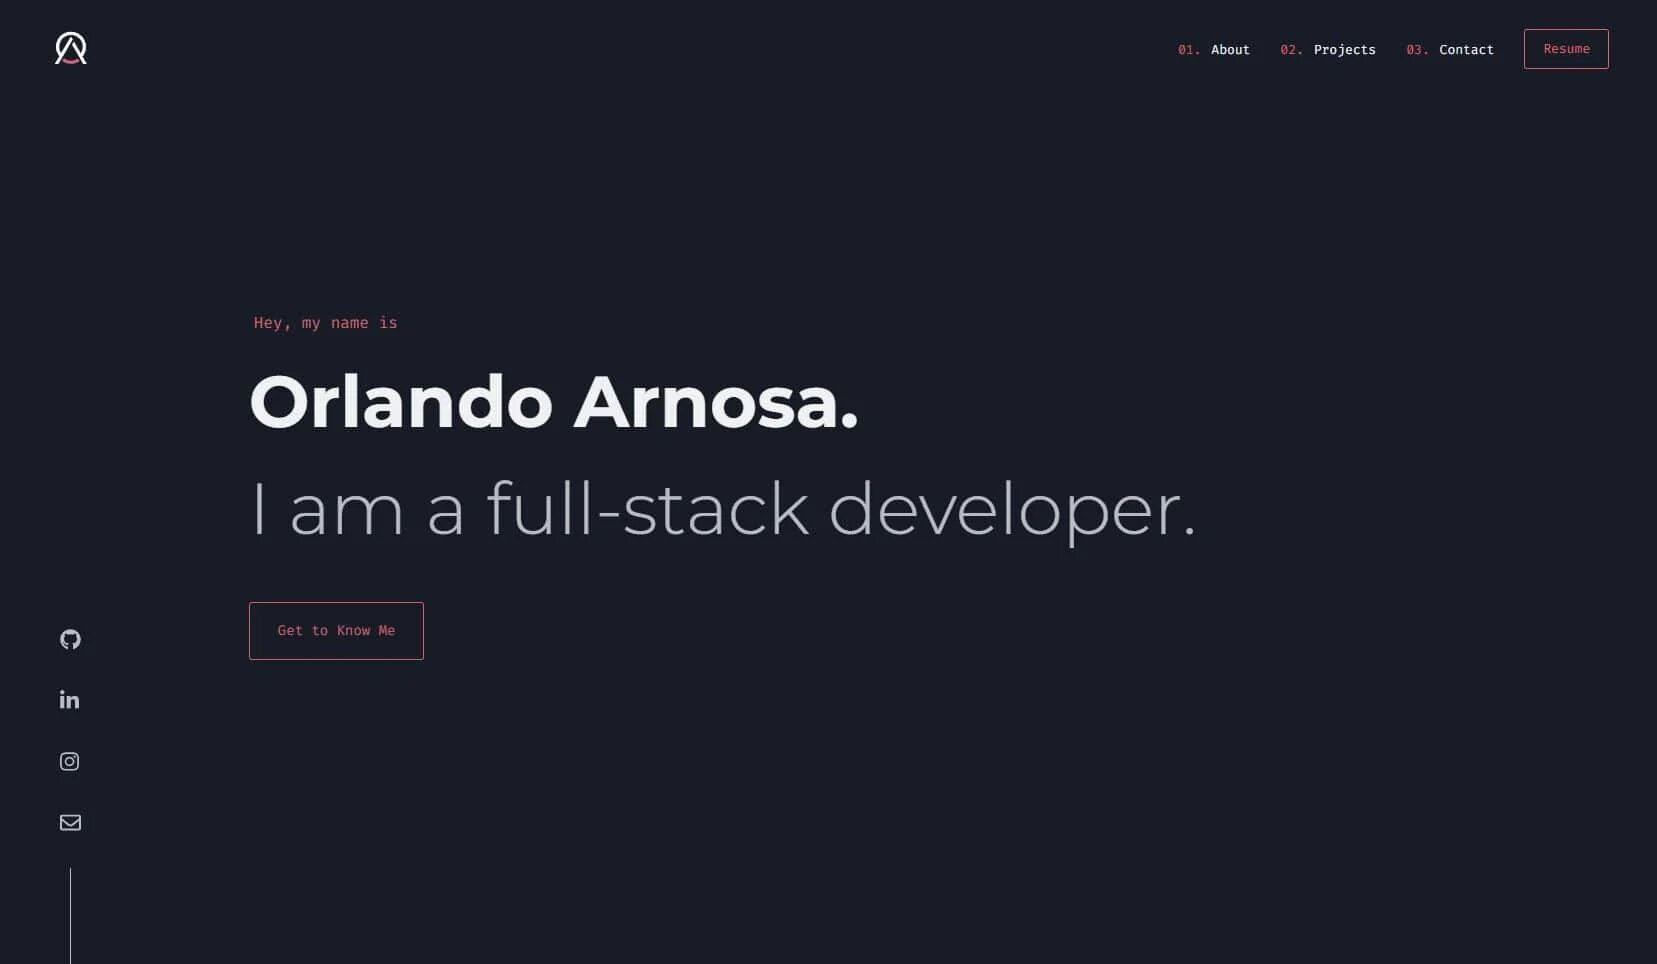
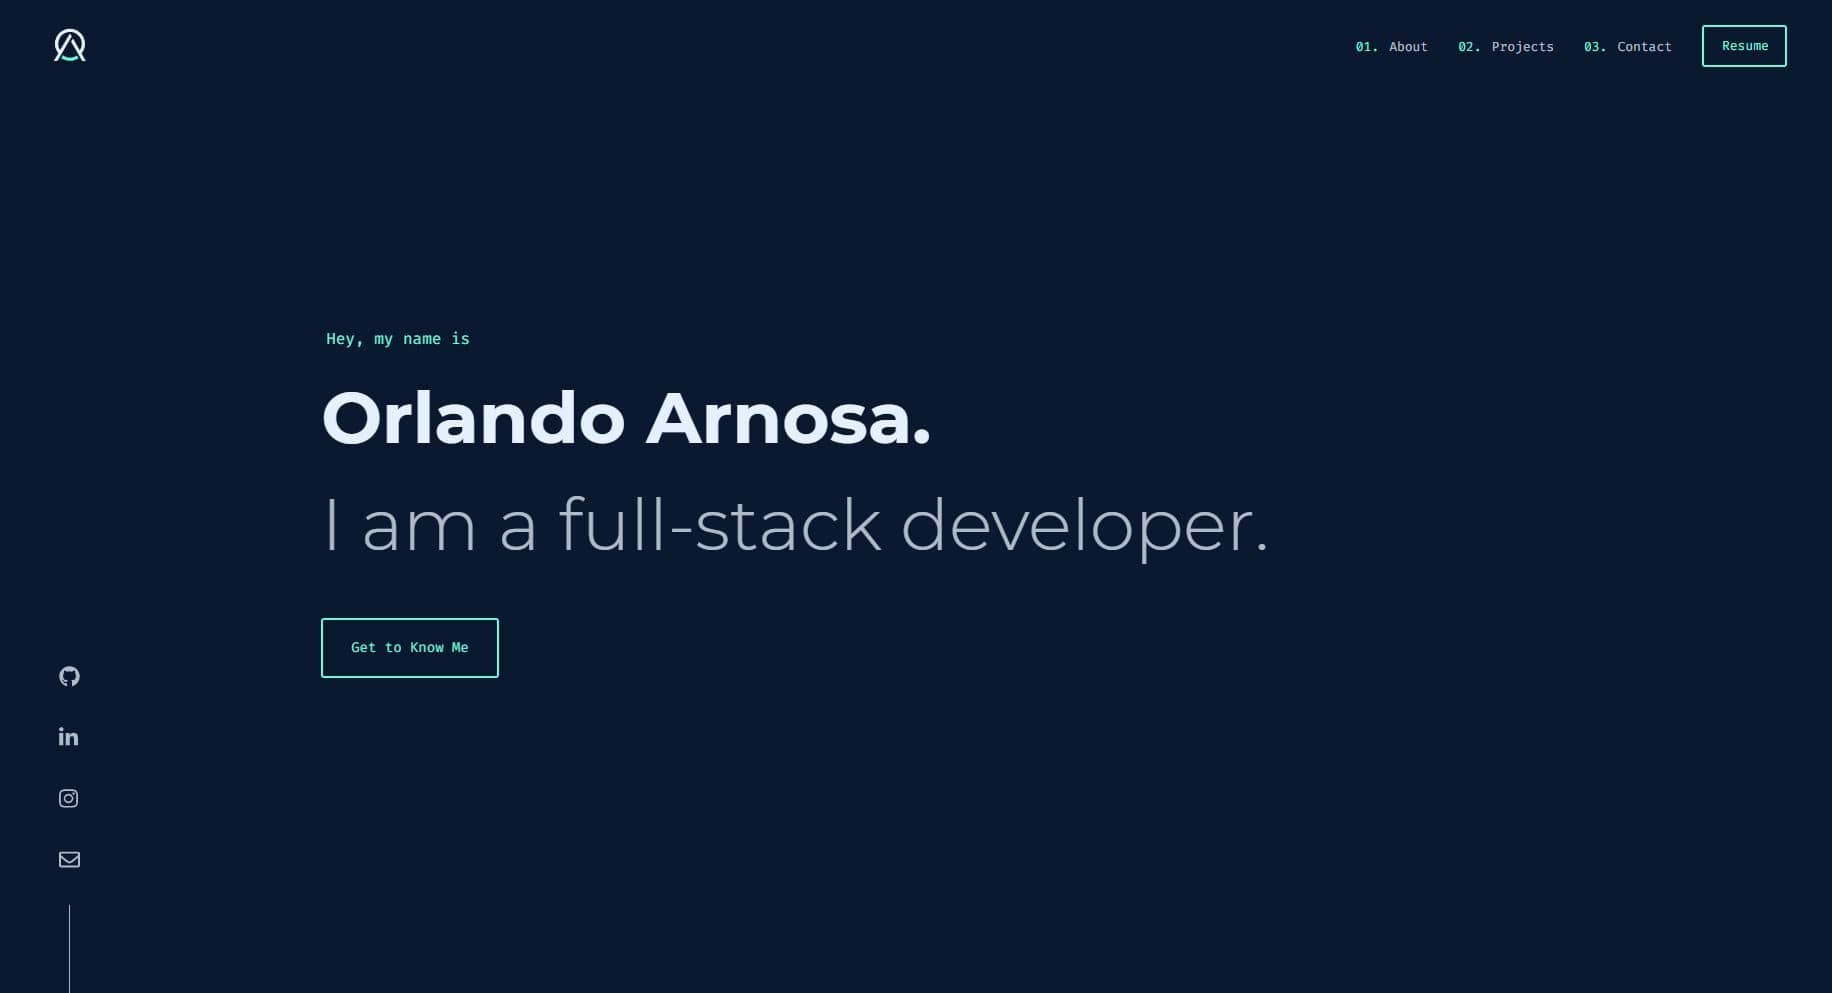
Change project colors

diff --git a/public/index.html b/public/index.html
@@ -10,7 +10,7 @@
       property="og:description"
       content="Hey! I'm Orlando, a full-stack developer and computer science graduate from Florida International University. I specialize in building high-quality, responsive, and performant websites and enjoy turning complex problems into simple, and intuitive solutions."
     />
-    <meta property="og:image" content="./images/portfolio-thumbnail.jpg" />
+    <meta property="og:image" content="./images/portfolio.jpg" />
     <meta property="og:url" content="https://www.orlandoarnosa.com" />
     <!--
       manifest.json provides metadata used when your web app is installed on a

diff --git a/src/assets/styles/1-helpers/_variables.scss b/src/assets/styles/1-helpers/_variables.scss
@@ -6,11 +6,11 @@ $font-primary: "Montserrat", sans-serif;
 $font-secondary: "Fira Code", monospace;
 
 // Colors
-$color-primary: rgba(239, 241, 245, 1);
-$color-secondary: rgba(218, 98, 106, 1);
-$color-tertiary: rgba(37, 45, 56, 1);
-$color-background: rgba(24, 28, 39, 1);
-$color-background-secondary: rgba(17, 21, 32, 1);
+$color-primary: #e6f1ff;
+$color-secondary: #64ffda;
+$color-tertiary: #112240;
+$color-background: #0a192f;
+$color-background-secondary: #020c1b;
 
 // Breakpoints
 $breakpoint-desktop: 1250px;

diff --git a/src/components/button/button.styles.scss b/src/components/button/button.styles.scss
@@ -6,7 +6,7 @@
   color: $color-secondary;
   font-size: 14px;
   font-family: $font-secondary;
-  border: 1px solid $color-secondary;
+  border: 2px solid $color-secondary;
   border-radius: 3px;
   transition: ease-in-out 0.25s;
 

diff --git a/src/pages/about/about.styles.scss b/src/pages/about/about.styles.scss
@@ -33,7 +33,6 @@
     &--special {
       cursor: pointer;
       color: $color-secondary;
-      font-weight: 500;
     }
   }
 

diff --git a/README.md b/README.md
@@ -47,33 +47,27 @@ $ npm start
 <table style="width:100%">
   <tr>
     <th>Color</th>
-    <th>RGB</th>
     <th>HEX</th>
   </tr>
   <tr align=center>
     <td>Navy</td>
-    <td>rgb(24, 28, 39)</td>
-    <td>#181c27</td>
+    <td>#112240</td>
   </tr>
   <tr align=center>
     <td>Dark Navy</td>
-    <td>rgb(17, 21, 32)</td>
-    <td>#111520</td>
+    <td>#0a192f</td>
   </tr>
   <tr align=center>
-    <td>Dark Grey</td>
-    <td>rgb(37, 45, 56)</td>
-    <td>#252d38</td>
+    <td>Darkest Navy</td>
+    <td>#020c1b</td>
   </tr>
     <tr align=center>
-    <td>Red</td>
-    <td>rgb(218, 98, 106)</td>
-    <td>#da626a</td>
+    <td>Green</td>
+    <td>#64ffda</td>
   </tr>
     <tr align=center>
     <td>White</td>
-    <td>rgb(239, 241, 245)</td>
-    <td>#eff1f5</td>
+    <td>#e6f1ff</td>
   </tr>
 </table>
 
